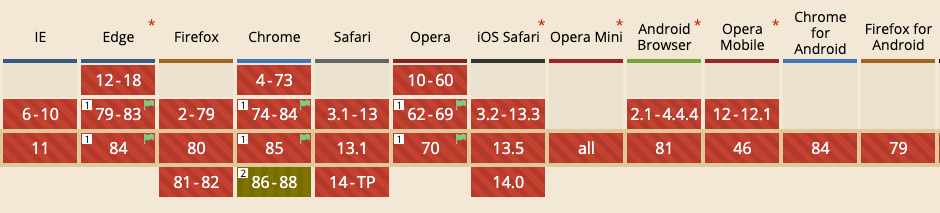
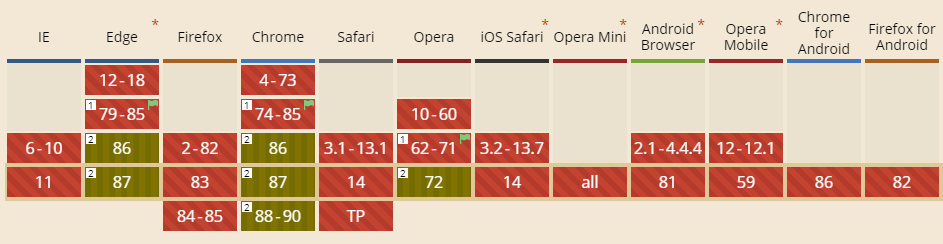
Updated "File System Access" (aka Native File System)

diff --git a/src/app/file-system/file-system.component.ts b/src/app/file-system/file-system.component.ts
@@ -1,4 +1,3 @@
-/// <reference types="wicg-native-file-system" />
 import { ElementRef, AfterViewInit } from '@angular/core';
 import { Component, OnInit, ViewChild } from '@angular/core';
 
@@ -16,12 +15,13 @@ export class FileSystemComponent implements OnInit, AfterViewInit {
   textarea!: ElementRef;
   textAreaElement!: HTMLTextAreaElement;
 
-  constructor() {}
+  constructor() { }
 
   ngOnInit(): void {
-    if (!('chooseFileSystemEntries' in window)) {
+    // Conditions valid until Chrome 85 and From v86 respectively
+    if (!('chooseFileSystemEntries' in window) && !('showOpenFilePicker' in window)) {
       this.unsupportedText =
-        'Your browser does not support Native File System API or you did not activate the Chrome flag.';
+        'Your browser does not support File System Access API or you did not activate the Chrome flag.';
     }
   }
 
@@ -32,18 +32,10 @@ export class FileSystemComponent implements OnInit, AfterViewInit {
   async openFile(): Promise<any> {
     try {
       // By opening a file, the user grants READ permission
-      // Chrome 86+ will allow to grant READ + WRITE permissions at once
-      this.fileHandle = await window.chooseFileSystemEntries({
-        // 'open-file' (default) gives us an open file dialog
-        type: 'open-file',
-        accepts: [
-          {
-            description: 'Text files only',
-            mimeTypes: ['text/plain'],
-            extensions: ['txt'],
-          },
-        ],
-      });
+      // Chrome 86+ allows to grant READ + WRITE permissions at once
+
+      // NB. We keep the fileHandle reference for later use (eg. save the file)
+      this.fileHandle = await this.getExistingFileHandle();
 
       // Returns a File object representing the selected file on disk
       const openedFile = await this.fileHandle.getFile();
@@ -57,17 +49,7 @@ export class FileSystemComponent implements OnInit, AfterViewInit {
   async saveAs(fileText: string): Promise<void> {
     try {
       // Save dialog grants WRITE permission
-      this.fileHandle = await window.chooseFileSystemEntries({
-        // 'save-file' gives us a file save dialog.
-        type: 'save-file',
-        accepts: [
-          {
-            description: 'Text files only',
-            mimeTypes: ['text/plain'],
-            extensions: ['txt'],
-          },
-        ],
-      });
+      this.fileHandle = await this.getNewFileHandle();
       await this.writeTextFile(this.fileHandle, fileText);
     } catch (error) {
       this.errorText = error.message;
@@ -84,21 +66,67 @@ export class FileSystemComponent implements OnInit, AfterViewInit {
         return await this.saveAs(fileText);
       }
     } catch (error) {
-      // If the user doesn't grant WRITE permissions a DOMException is triggered
+      // If the user doesn't grant WRITE permission a DOMException is triggered
       this.errorText = error.message;
       console.error(error.name, error.message);
     }
   }
 
-  private async writeTextFile(fileHandle: FileSystemFileHandle, fileText: string): Promise<void> {
+  private async writeTextFile(fileHandle: FileSystemFileHandle, textContent: string): Promise<void> {
     // Creates a writeable stream.
-    // Chrome first checks if the user has granted write permission to the file
+    // Chrome first checks if the user has granted WRITE permission to the file
     const writeable = await fileHandle.createWritable();
 
-    // Write the textarea content to the stream.
-    writeable.write(fileText);
+    // Writes the textarea content to the stream.
+    writeable.write(textContent);
 
     // No changes are written to the disk until we close the stream!
     writeable.close();
+  }
+
+  private getExistingFileHandle(): Promise<FileSystemFileHandle> {
+    const options = this.getFilePickerOptions();
+
+    // Chrome 86+
+    if ('showOpenFilePicker' in window) {
+      return window.showOpenFilePicker(options).then((handles: FileSystemFileHandle[]) => handles[0]);
+    }
+    // Chrome 85 and previous versions
+    return window.chooseFileSystemEntries(options);
+  }
+
+  private getNewFileHandle(): Promise<FileSystemFileHandle> {
+    let options = {};
+
+    // Chrome 86+
+    if ('showSaveFilePicker' in window) {
+      options = this.getFilePickerOptions();
+      return window.showSaveFilePicker(options);
+    }
+    // Chrome 85 and previous versions
+    options = this.getFilePickerOptions('save-file');
+    return window.chooseFileSystemEntries(options);
+  }
+
+  private getFilePickerOptions(type: 'open-file' | 'save-file' = 'open-file'): any {
+    if ('showSaveFilePicker' in window) {
+      return {
+        types: [{
+          description: 'Text files',
+          accept: { 'text/plain': ['.txt'] },
+        }],
+      };
+    }
+
+    return {
+      type,
+      accepts: [
+        {
+          description: 'Text files',
+          mimeTypes: ['text/plain'],
+          extensions: ['txt'],
+        },
+      ]
+    };
   }
 }

diff --git a/src/app/file-system/file-system.component.html b/src/app/file-system/file-system.component.html
@@ -1,7 +1,7 @@
 <section class="content">
-  <h1>Native File System API</h1>
+  <h1>File System Access API</h1>
   <mat-card class="descr-card">
-    <p>The <strong>Native File System API</strong> offers new features to manipulate local files providing an
+    <p>The <strong>File System Access API</strong> offers new features to manipulate local files providing an
       improved experience to our users like a native app.
       We don't have to download the file each time we want to edit it, but we can save it directly.
       We can even implement an auto-save functionality.
@@ -13,11 +13,10 @@
       <br>
       <span class="flex-centered">
         <img src="assets/icons/warning.png" class="icon-space" width="24" height="24" alt="warning icon">
-        Still experimental
+        Active by default from Chrome 86.
       </span>
-      Enable the <cite><strong>Native File System</strong></cite> flag in Chrome to test it
+      In older Chrome versions you might need to enable the related flag in Chrome to test it
       (chrome://flags/#native-file-system-api).
-      Active by default from Chrome 86.
     </p>
   </mat-card>
   <div class="native-demo" *ngIf="!unsupportedText; else noSupported">

diff --git a/src/app/home/home.component.html b/src/app/home/home.component.html
@@ -12,15 +12,8 @@
     <p>
     🔥 Thanks to PWA features, you can also install this web app on your device 🔥
     <br><br>
-    On <strong>desktop machines</strong> you can install the app locally by clicking in the <i>install</i> icon in the
-    browser address bar
-    (the image below shows the icon in Chrome):
-    </p>
-    <p align="center">
-      <img class="img-install"
-        src="https://res.cloudinary.com/practicaldev/image/fetch/s--ujOImKwb--/c_limit%2Cf_auto%2Cfl_progressive%2Cq_auto%2Cw_880/https://dev-to-uploads.s3.amazonaws.com/i/0v3mf9jqinssq2qiy6h6.png"
-        alt="Desktop Install">
-    </p>
+    On <strong>desktop machines</strong> you can install the app locally by clicking in the (+) icon in the
+    browser address bar.</p>
     <br>
     <p>
       On <strong>mobile devices</strong> an "Add-To-Home-Screen" dialog (A2HS)should automatically appear to add the app

diff --git a/src/app/navigation/navigation.component.html b/src/app/navigation/navigation.component.html
@@ -34,7 +34,7 @@
       </a>
 
       <a mat-list-item [routerLink]="['/file']" (click)="toggleOnNavigation()">
-        <img src="assets/icons/article.png" class="icon-space" width="24" height="24" alt="Native File System icon">
+        <img src="assets/icons/article.png" class="icon-space" width="24" height="24" alt="File System Access icon">
         File System
       </a>
 
